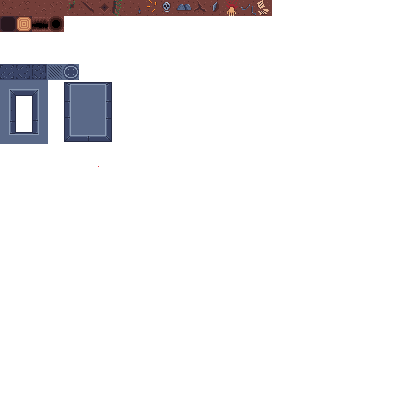
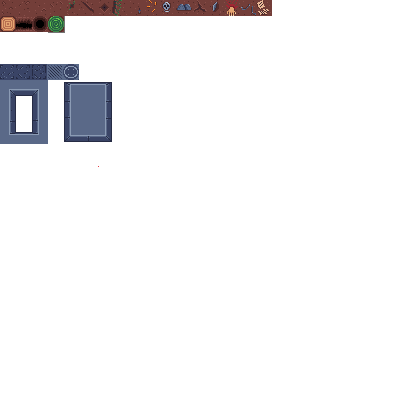
better random itens and weapons system + better walls
put the same systems of floor tile chose to the itens, now it is more  easy to calibrate and work with.  Delete the old wall tile, now it is a little better one, add news wall tiles too

Changed region(s): [[0.0, 0.03, 0.18, 0.09]]

diff --git a/src/entities/Weapon.java b/src/entities/Weapon.java
@@ -1,33 +1,58 @@
 package entities;
 
 import java.awt.image.BufferedImage;
+import java.util.Random;
 
 import main.Game;
 
 public class Weapon extends Entity{
 	
-	//Wapons
-	public static BufferedImage armor1_en = Game.itemsSprite.getSprite(16*0, 0, 16, 16);
-	public static BufferedImage armor2_en = Game.itemsSprite.getSprite(16*1, 0, 16, 16);
-	public static BufferedImage armor3_en = Game.itemsSprite.getSprite(16*2, 0, 16, 16);
-	public static BufferedImage mage1_en = Game.itemsSprite.getSprite(16*3, 0, 16, 16);
-	public static BufferedImage mage2_en = Game.itemsSprite.getSprite(16*4, 0, 16, 16);
+	//Random Weapons
+	public static BufferedImage randomWeapon() {
+		Random randomWeapon = new Random();
+		int weaponIndex = randomWeapon.nextInt(8);
+		
+		if(weaponIndex == 1) return armor2;
+		if(weaponIndex == 2) return armor3;
+		if(weaponIndex == 3) return mage1;
+		if(weaponIndex == 4) return mage2;
+		if(weaponIndex == 5) return katana;
+		if(weaponIndex == 6) return sword;
+		if(weaponIndex == 7) return granade;
+		
+		else return armor1;
+	}
+	
+	public static BufferedImage armor1 = Game.itemsSprite.getSprite(16*0, 0, 16, 16);
+	public static BufferedImage armor2 = Game.itemsSprite.getSprite(16*1, 0, 16, 16);
+	public static BufferedImage armor3 = Game.itemsSprite.getSprite(16*2, 0, 16, 16);
+	public static BufferedImage mage1 = Game.itemsSprite.getSprite(16*3, 0, 16, 16);
+	public static BufferedImage mage2 = Game.itemsSprite.getSprite(16*4, 0, 16, 16);
 	public static BufferedImage katana = Game.itemsSprite.getSprite(16*5 , 0, 16, 16);
-	public static BufferedImage sword_en = Game.itemsSprite.getSprite(16*6 , 0, 16, 16);
-	public static BufferedImage granade_en = Game.itemsSprite.getSprite(16*7 , 0, 16, 16);
+	public static BufferedImage sword = Game.itemsSprite.getSprite(16*6 , 0, 16, 16);
+	public static BufferedImage granade = Game.itemsSprite.getSprite(16*7 , 0, 16, 16);
 	
-	//putting all itens in a array to use randomly
-	public static BufferedImage[] weapons = {armor1_en,armor2_en,armor3_en,mage1_en,mage2_en,sword_en,granade_en,katana};
+
 	
+	//Random Itens
+	public static BufferedImage randomItem() {
+		Random randomItem = new Random();
+		int itemIndex = randomItem.nextInt(5);
+		
+		if(itemIndex == 1) return medKit;
+		if(itemIndex == 2) return bullets;
+		if(itemIndex == 3) return shild;
+		if(itemIndex == 4) return manapot;
+		
+		else return medKit;
+	}
 	
-	//Itens
 	public static BufferedImage medKit = Game.itemsSprite.getSprite(16*0, 16, 16, 16);
 	public static BufferedImage bullets = Game.itemsSprite.getSprite(16*1, 16, 16, 16);
 	public static BufferedImage energy = Game.itemsSprite.getSprite(16*2, 16, 16, 16);
 	public static BufferedImage shild = Game.itemsSprite.getSprite(16*3, 16, 16, 16);
 	public static BufferedImage manapot = Game.itemsSprite.getSprite(16*4, 16, 16, 16);
 	
-	public static BufferedImage[] itens = {medKit,bullets,energy,shild,manapot};
 	
 	
 	public Weapon(int x, int y, int width, int height, BufferedImage sprite) {

diff --git a/src/world/WallTile.java b/src/world/WallTile.java
@@ -11,11 +11,11 @@ public class WallTile extends Tile {
 		Random random = new Random();
 		int randomWall = random.nextInt(100);
 		
-		if(randomWall > 80 && randomWall < 100) return TileWall1;
-		if(randomWall > 60 && randomWall < 80) return TileWall2;
-		if(randomWall > 40 && randomWall < 60) return TileWall3;
+		if(randomWall > 80 && randomWall < 100) return TileWall1;//havean
+		if(randomWall > 40 && randomWall < 60) return TileWall3; //Tree
+		if(randomWall == 80) return TileWall2; //Hole
 		
-		else return TileWall0;
+		else return TileWall0; //wood
 	}
 	
 	public static BufferedImage TileWall0 = Game.worldSprite.getSprite(0*16, 16, 16, 16);
